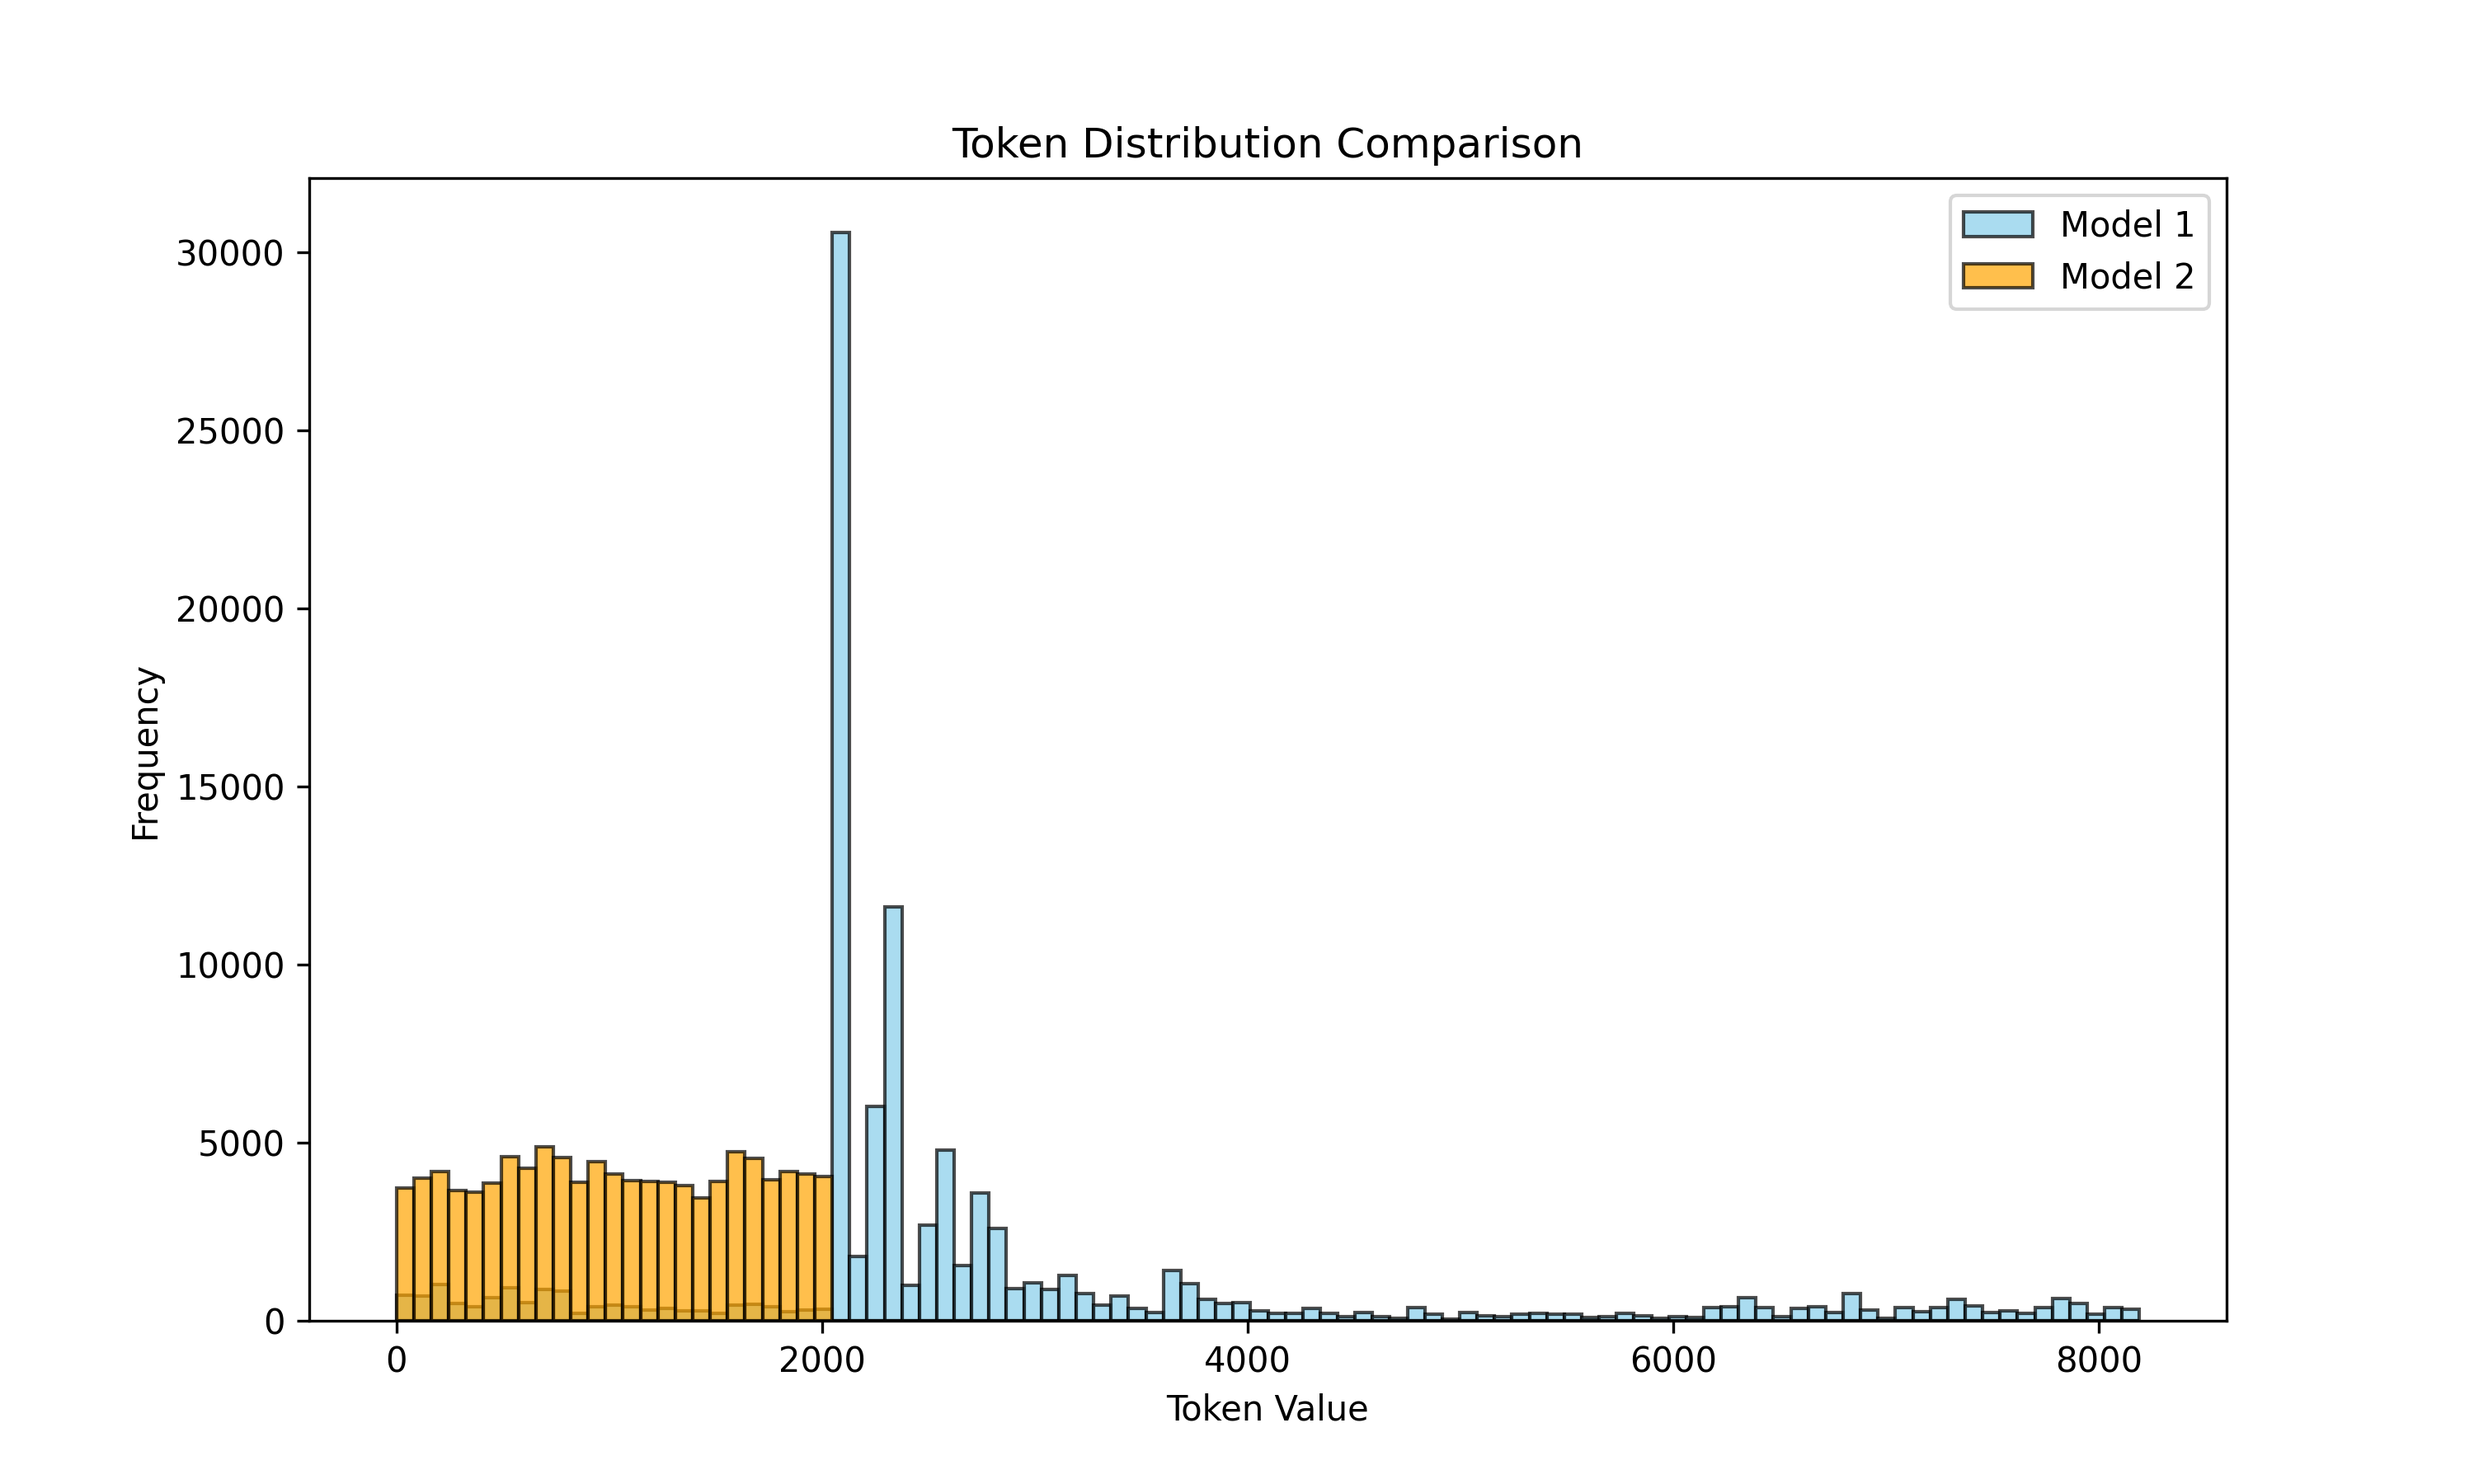
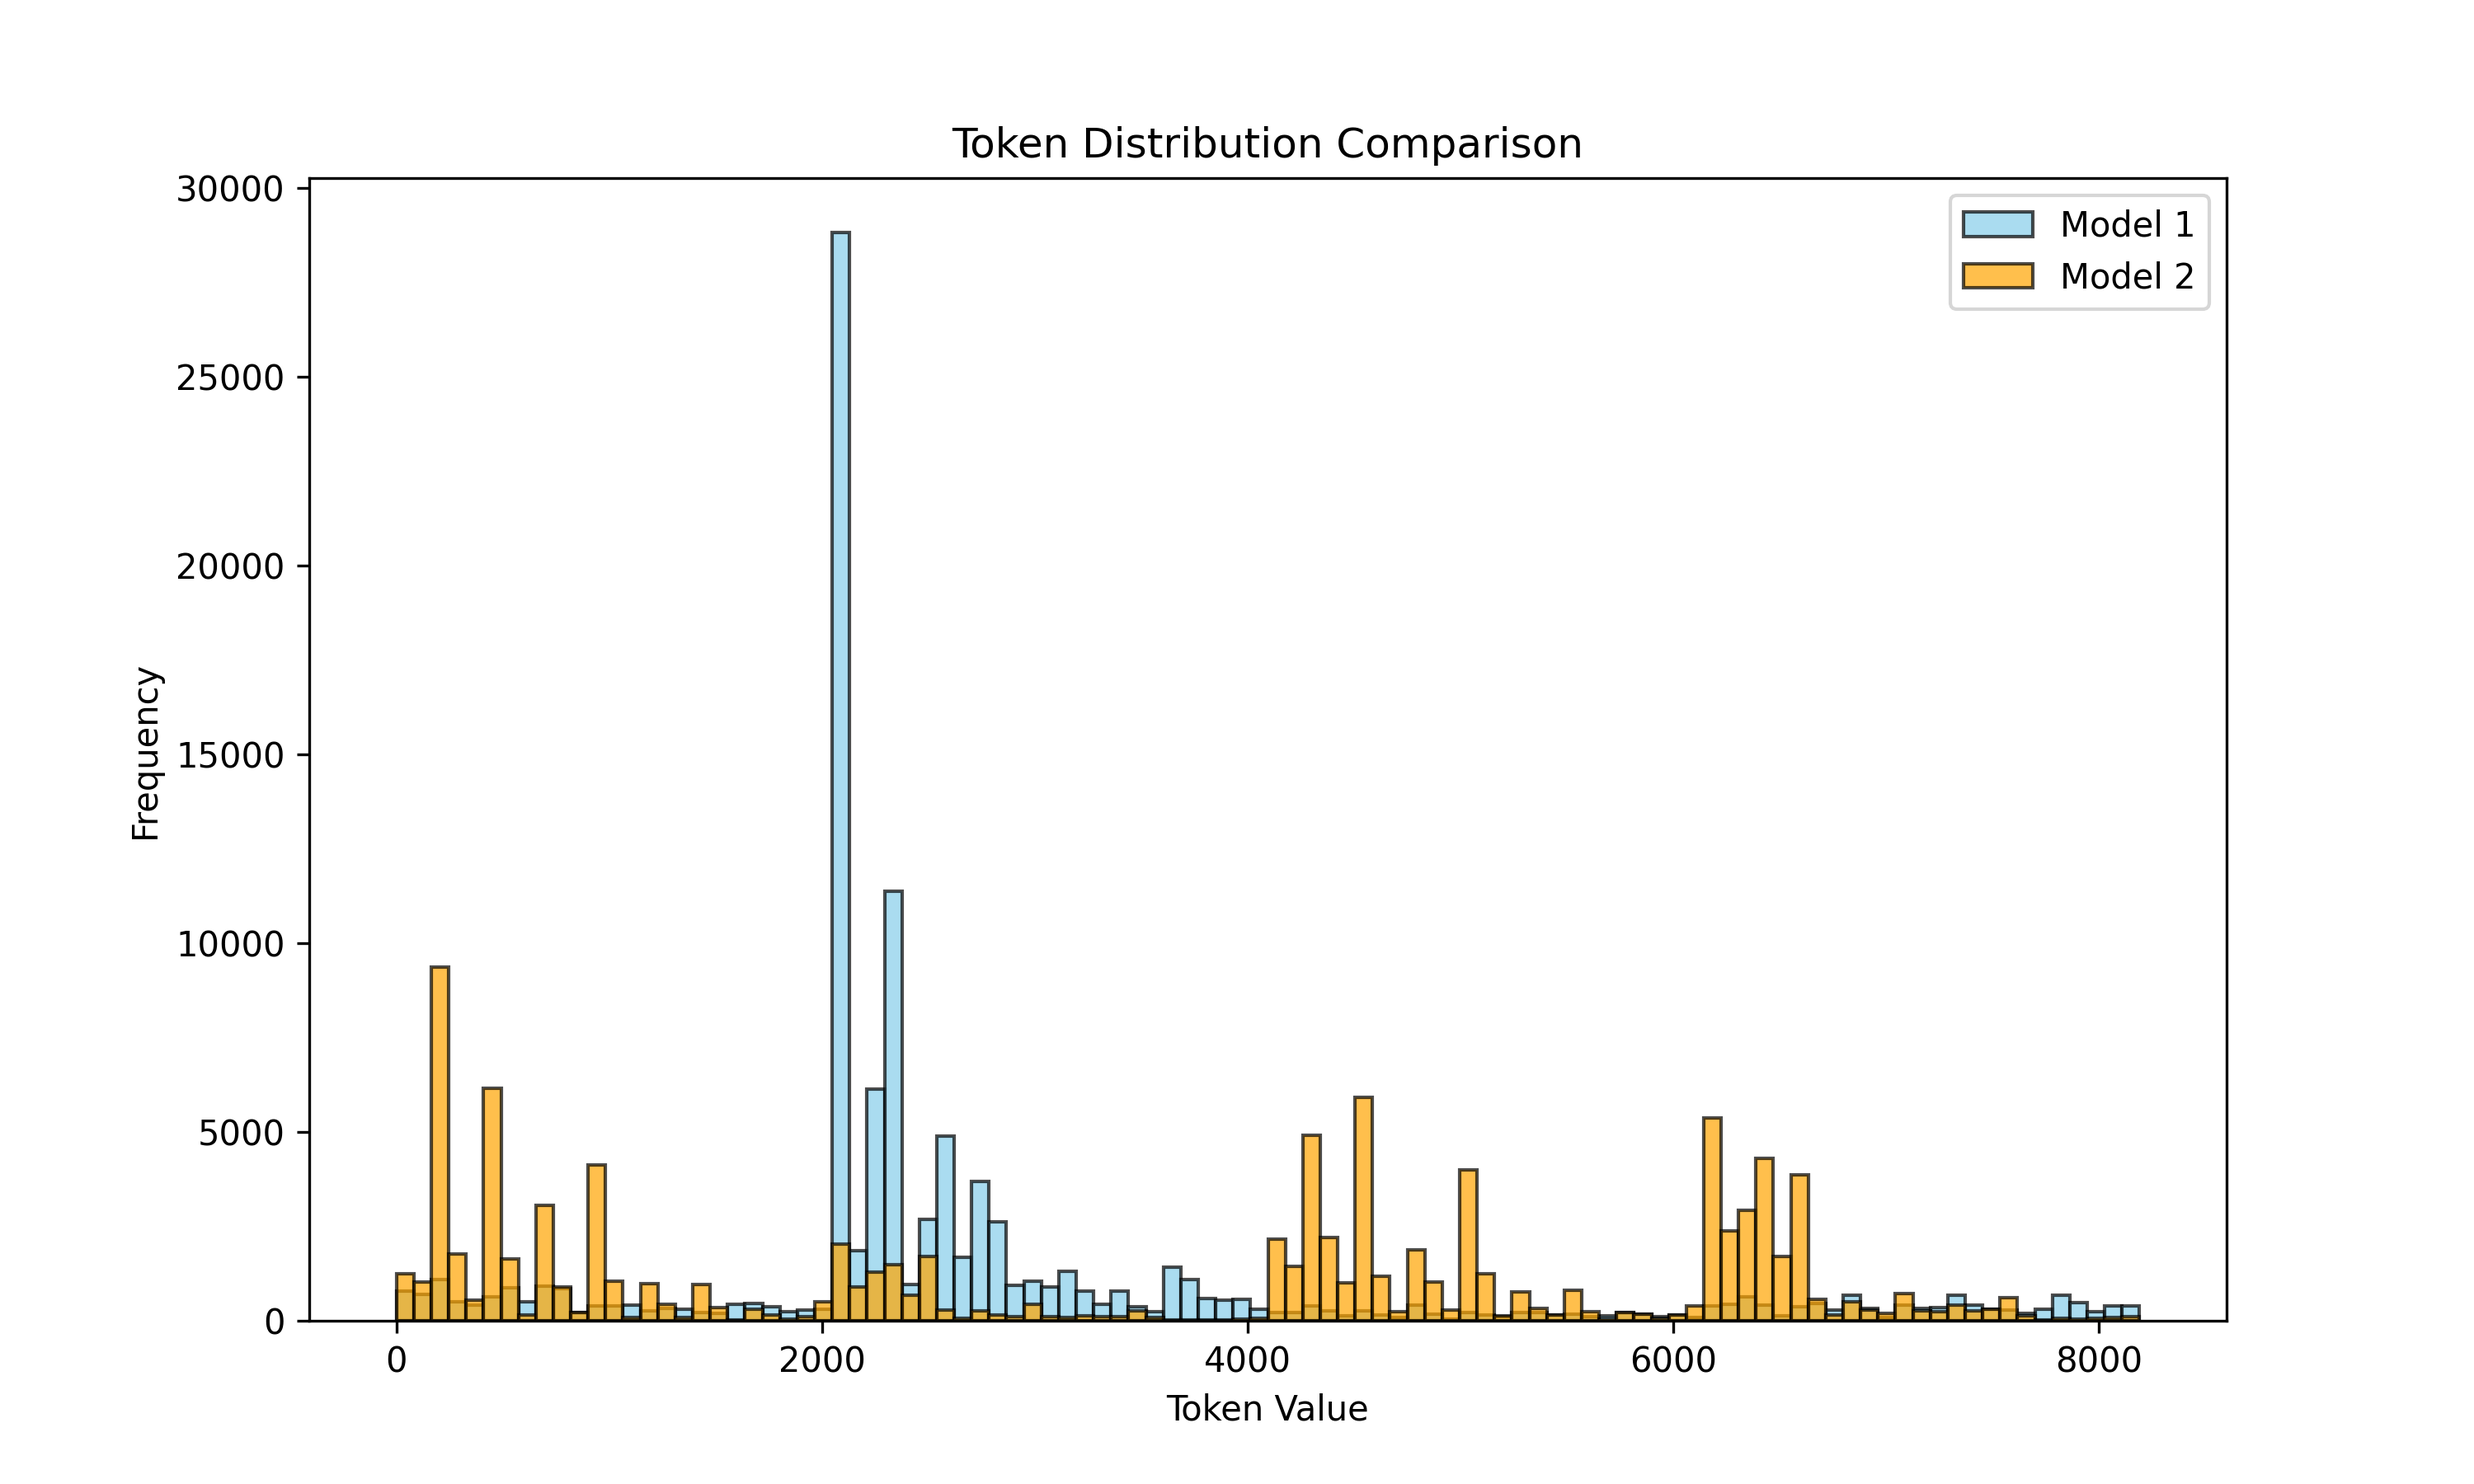
111

diff --git a/draw_vq_distribution.py b/draw_vq_distribution.py
@@ -27,13 +27,16 @@ def load_vqgan_new(config, ckpt_path=None):
         model_weights = {k: v for k, v in sd.items() if not k.startswith('model_ema.')}
         ema_weights = {k.replace('model_ema.', ''): v for k, v in sd.items() if k.startswith('model_ema.')}
         
-        # 加载普通模型的权重
-        model.load_state_dict(model_weights, strict=False)
+        
         
         # 加载 EMA 模型的权重
         if ema_weights:
             model.load_state_dict(ema_weights, strict=False)
             print("Load from EMA!")
+        else:
+            # 加载普通模型的权重
+            model.load_state_dict(model_weights, strict=False)
+            
     
     return model.eval()
 
@@ -92,7 +95,7 @@ def compare_vq_models(model1, model2, img_folder, num_of_sample=100, resolution=
         # 模型1推理
         with torch.no_grad():
             img_token_model1 = model1.get_code(img_tensor)
-            print("img_token_model1: ", img_token_model1.shape)
+            # print("img_token_model1: ", img_token_model1.shape)
             
         img_tokens_model1.append(img_token_model1.detach().cpu())
         
@@ -100,7 +103,7 @@ def compare_vq_models(model1, model2, img_folder, num_of_sample=100, resolution=
         # 模型2推理
         with torch.no_grad():
             img_token_model2 = model2.get_code(img_tensor)
-            print("img_token_model2: ", img_token_model2.shape)
+            # print("img_token_model2: ", img_token_model2.shape)
 
         img_tokens_model2.append(img_token_model2.detach().cpu())
         
@@ -123,14 +126,15 @@ def compare_vq_models(model1, model2, img_folder, num_of_sample=100, resolution=
 
 if __name__ == '__main__':
     
-    model1 = MAGVITv2.from_pretrained('/lustre/home/2201210053/GEOMETERY/others/show_base/')
+    # model1 = MAGVITv2.from_pretrained('/lustre/home/2201210053/GEOMETERY/others/show_base/')
+    model1 = MAGVITv2.from_pretrained('showlab/magvitv2')
     
     # 加载模型二
-    config_file_2 = "/lustre/home/2201210053/GEOMETERY/results1031/vqgan/test/config.yaml"
-    ckpt_path_2 = "/lustre/home/2201210053/GEOMETERY/checkpoints1031/vqgan/test/epoch=149-step=44700.ckpt"
+    config_file_2 = "/lustre/home/2001110054/GEO-Open-MAGVIT2/outputs/expr_1109_mask/show/config.yaml"
+    ckpt_path_2 = "/lustre/home/2001110054/GEO-Open-MAGVIT2/outputs/expr_1109_mask/ckpt/epoch=131-step=49104.ckpt"
     
     config_model_2 = load_config(config_path=config_file_2, display=False)
     model2 = load_vqgan_new(config_model_2, ckpt_path=ckpt_path_2)
 
-    img_folder = '/lustre/home/2201210053/Geo-Show-o/data/formalgeo7k/formalgeo7k_v2/diagrams'  # 图片文件夹路径
+    img_folder = '/lustre/home/2001110054/Show-o/data/formalgeo7k_v2/diagrams'  # 图片文件夹路径
     compare_vq_models(model1, model2, img_folder)

diff --git a/models/modeling_geomagvit2.py b/models/modeling_geomagvit2.py
@@ -1,7 +1,9 @@
 from dataclasses import dataclass, field
 import numpy as np
 import torch
-import torch.nn as nn, einsum
+import torch.nn as nn
+from torch import einsum
+import torch.nn.functional as F
 import math
 from einops import rearrange, reduce, pack, unpack
 from collections import namedtuple
@@ -382,7 +384,7 @@ class VQModel(nn.Module):
 
         self.encoder = Encoder(**ddconfig)
         self.decoder = Decoder(**ddconfig)
-        self.quantize = LFQ(dim=11, codebook_size=2**11)
+        self.quantize = LFQ(dim=13, codebook_size=2**13)
 
     def encode(self, x):
         h = self.encoder(x)
